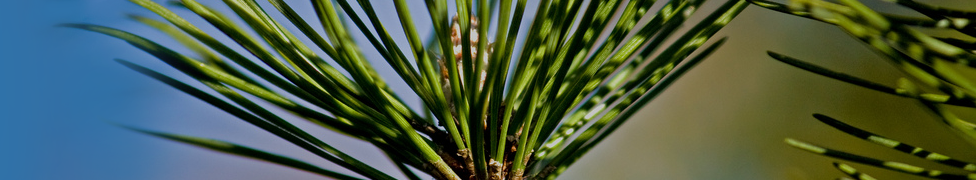
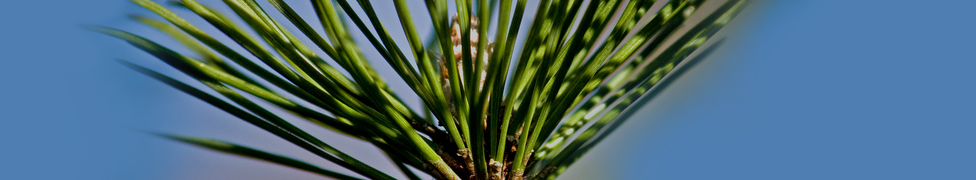
layouts redo

diff --git a/omega/public/stylesheets/application.css b/omega/public/stylesheets/application.css
@@ -30,13 +30,11 @@ body.evergreen > #wrapper {
 }
 
 html, body, #wrapper {
-    height: 100%;
     color: #191919;
 }
 
 body > #wrapper {
     height: auto;
-    min-height: 100%;
 }
 
 label {
@@ -122,8 +120,6 @@ h2 a {
     font-size: 1.3em;
     color: #00459a;
 }
-
-
 
 h2 a:hover {
     color: #4196ee;
@@ -589,7 +585,7 @@ tr.odd {
 }
 
 #wrapper {
-    min-height: 400px;
+    min-height: 700px;
 
 }
 
@@ -601,13 +597,9 @@ tr.odd {
 }
 
 #banner_wrapper {
-	/*position: relative;
-	z-index: 1;
-    margin: -171px 0 0 -132px;*/
 	position: absolute;
 	top: 29px;
 	left: 0;
-	min-width: 100%;
 	width: 100%;
 	height: auto;
 	
@@ -626,20 +618,16 @@ tr.odd {
 
 }
 
-#banner-left {
-	float: left;
-	width: 30%;
-	height: 180px;
-}
 
 #banner-right {
-	position:relative;
-	float: right;
-	background: url("/images/top-banner-right.png") no-repeat center;
-	width: 70%;
+
+	float:right;
+	background: url("/images/top-banner-right.png") no-repeat right;
+	width: 100%;
 	height: 180px;
-	top: 0;
+	top:0;
 	right: 0;
+	
 }
 
 
@@ -680,47 +668,43 @@ tr.odd {
     color: #FFF;
 }
 
-#content {
+#content_box{
     text-align: left;
-    margin: 4em auto 2em;
     width: 950px;
-    padding: 0 0 8em auto;
+    padding: 0 0 0 auto;
+	min-height: 720px;
+
+	
 }
 
-#content.evergreen {
+#content-box.evergreen {
     text-align: left;
-    margin: 4em auto 2em;
     width: 950px;
     padding: 0 0 8em auto;
+	min-height: 400px;
+
 }
 
 #left {
-    text-align: left;
+    text-align:justify;
     float: left;
-    width: 690px;
-    margin: 0;
+    width: 700px;
+    margin-top: -89px;
 }
 
 #right {
     text-align: left !important;
-    width: 230px;
-    margin: 0;
+    width: 250px;
+    margin-top: -89px;
     float: right;
+	background: #000;
+	min-height: 716px;
+	    -moz-border-radius-bottomright: 16px;
+    -webkit-border-radius-bottomright: 16px;
+    border-bottom-right-radius: 16px;
 }
 
-#left.evergreen {
-    text-align: left;
-    float: left;
-    width: 690px
-    margin: 0;
-}
 
-#right.evergreen {
-    text-align: left !important;
-    width: 230px;
-    margin: 0;
-    float: right;
-}
 
 div.arrow {
 	position: relative;
@@ -743,9 +727,9 @@ div.mandatory-field {
     height: 10px;
 }
 
-.content-box {
-    margin: 0 0 0;
-}
+/*.content-box {
+   margin: 0 0 0;
+*/
 
 .center-content {
     width: 950px;
@@ -764,45 +748,39 @@ div.mandatory-field {
     margin: 0 auto;
 }
 
-div.page-content {
-    background: #fff;
-    padding: 0 0 0 0;
-	border: 1px solid #C4B991;
-	min-height: 650px;
-	margin-top: -90px;
-
-
-}
-
-div.page-content-evergreen {
+div.content {
     background: #fff;
     padding: 15px;
-	height: auto;
-	min-height: 650px;
 	border: 1px solid #C4B991;
-	margin-top: -90px;
-
 
 }
 
-div.main-page-content-evergreen {
+div.content-evergreen {
     background: #fff;
-    border: 1px solid #C4B991;
-	padding: 45px 0 0 25px;
+    padding: 45px 20px 20px 20px;
 	height: auto;
-	width: 923px;
+	border: 1px solid #C4B991;
 	min-height: 650px;
-	margin: -40px auto 0 auto;
-	text-align: justify;
+
+
+
+
 }
 
 div.main-content-left {
 	float: left;
 	width: 600px;
 	height: auto;
-	padding: 60px 0 0 0;
 	
 }
+
+div.main-content-right {
+	float: right;
+	width: 300px;
+	height: auto;
+}
+
+
 
 div.heading-main {
 	width: 948px;
@@ -859,12 +837,7 @@ div.form-signup {
 
 }
 
-div.main-content-right {
-	float: right;
-	width: 300px;
-	height: auto;
-    padding: 45px 0 0 20px;
-}
+
 
 
 div.page-content-services{
@@ -923,7 +896,7 @@ div.wizard_intro {
 
 div.sidebar-menu {
 
-    margin: 0 0 1em;
+    margin: 10px 10px 10px 10px;
 }
 
 h1.side-bar {
@@ -935,14 +908,14 @@ h1.side-bar {
 }
 
 div.sidebar-menu-content {
-    margin: 0 0 20px;
+    margin: 10px 10px 20px 10px;
     padding: 5px;
     border: 1px solid #4096ee;
     background: #fff;
 }
 
 h1.side-bar-evergreen {
-    margin: 0;
+    margin: 10px 10px 0 10px;
 	background: url("/images/h1_sidebar_bg_evergreen.png") repeat-x bottom #D6D7C6;
     text-shadow: #E3E3D7 1px 1px 1px;
 	color: #524427;
@@ -952,7 +925,7 @@ h1.side-bar-evergreen {
 }
 
 div.sidebar-evergreen-menu-content {
-    margin: 0 0 30px;
+    margin: 10px 10px 10px 10px;
     padding: 5px;
 	border: 1px solid #99976A;
     background: #fff;
@@ -979,8 +952,10 @@ li.menu-li-last-divider {
 
 /* breadcrumbs to display the current path */
 #breadcrumb {
+	position: relative;
     padding: 14px 0 0 0;
     color: #fff;
+	z-index: 1;
 }
 
 #breadcrumb a {
@@ -1036,6 +1011,19 @@ li.list-item {
     border-bottom-left-radius: 16px;
     border-bottom-right-radius: 16px;
 }
+
+.circle-corners-bottom-left {
+    -moz-border-radius-bottomleft: 16px;
+    -webkit-border-radius-bottomleft: 16px;
+    border-bottom-left-radius: 16px;
+}
+
+.circle-corners-bottom-right {
+    -moz-border-radius-bottomright: 16px;
+    -webkit-border-radius-bottomright: 16px;
+    border-bottom-right-radius: 16px;
+}
+
 
 .circle-corners-top {
     -moz-border-radius-topleft: 16px;
@@ -1804,7 +1792,7 @@ div.pagination span.disabled {
 	min-width: 1200px;
 	width: 100%;
 	background: url("/images/footer_bg.png") repeat-x #CBC8A0;
-	margin-top: 30px;
+	margin-top: 40px;
   
 }
 

diff --git a/omega/app/helpers/html_helper.rb b/omega/app/helpers/html_helper.rb
@@ -97,10 +97,9 @@ module HtmlHelper
   end
 
   def context_box(&block)
-    #%Q{<div class="box-shadow content-box">#{capture(&block)}</div>}.html_safe
+    %Q{<div id="content_box">#{capture(&block)}</div>}.html_safe
     
-    %Q{<div class=" content-box">#{capture(&block)}</div>}.html_safe
-
+    
   end
 
 
